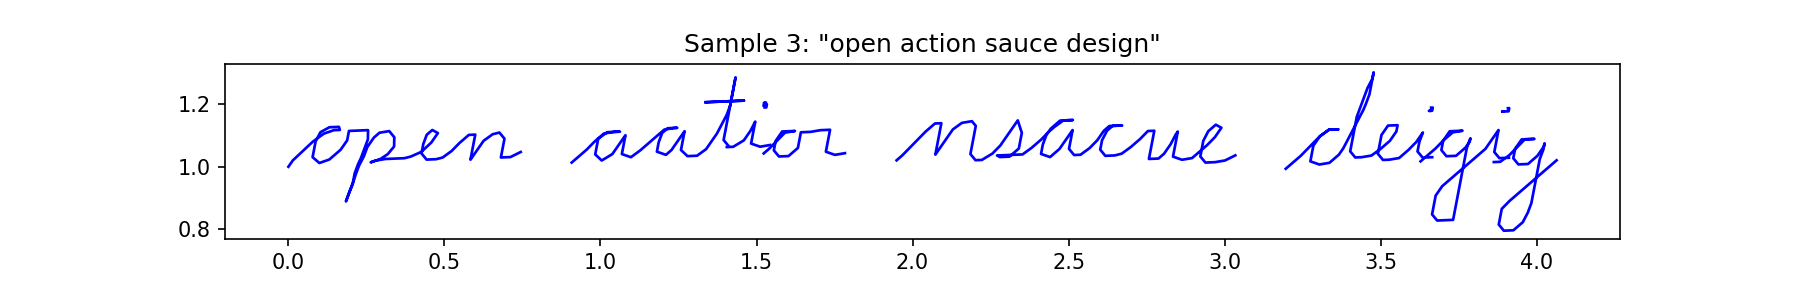
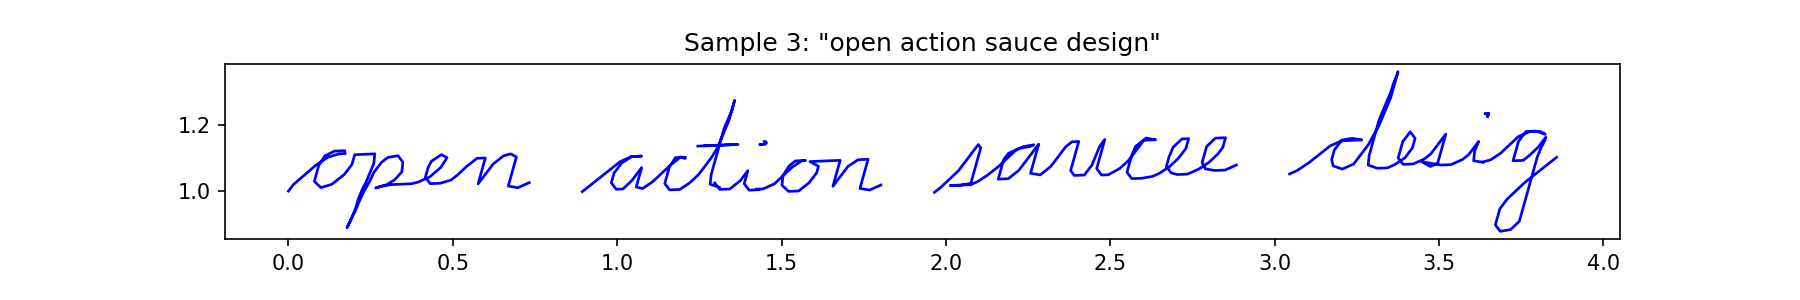
Update sample and readme

diff --git a/README.md b/README.md
@@ -274,8 +274,6 @@ We have 200 samples containing i's / j's / t's / x's (our plan is to add about 2
 
 We upgraded out downsampling code from a naive method which downsampled points more or less at random regardless of whether they were at the beginning or ending of a stroke, to a new method which always keeps the beginning and end points of a stroke intact. This method is important when we're doing aggressive 60-70% downsample operations because quite often those operations cause us to lose a number of points at the beginning/endings of strokes. When we lose those points, we start to see artifacts arise: gaps appear between strokes that are supposed to overlap and some small strokes disappear entirely.
 
-We also added 100 new samples, for a total dataset size of 1.4k words. Remarkably, we are now starting to see nice i's and t's - and decent penmanship control in general - appear at 7.5k gradient steps (5-7 minutes of training) whereas in the past, we were seeing this kind of quality around 25-75k steps. So this is a 4-10x improvement. See, for example, this sample grabbed we grabbed at 7.5k steps:
+We also added 100 new samples, for a total dataset size of 1.4k words. Remarkably, we are now starting to see nice i's and t's - and decent penmanship control in general - appear at 7.5k gradient steps (5-7 minutes of training) whereas in the past, we were seeing this kind of quality around 25-75k steps. So this is a 4-10x improvement. Here is a sample taken around 25k steps. It's basically perfect.
 
 ![sample_v40](static/sample_v40.png)
-
-It still makes a number of spelling mistakes, but the individual characters are more or less in the right places, and are basically well formed.
